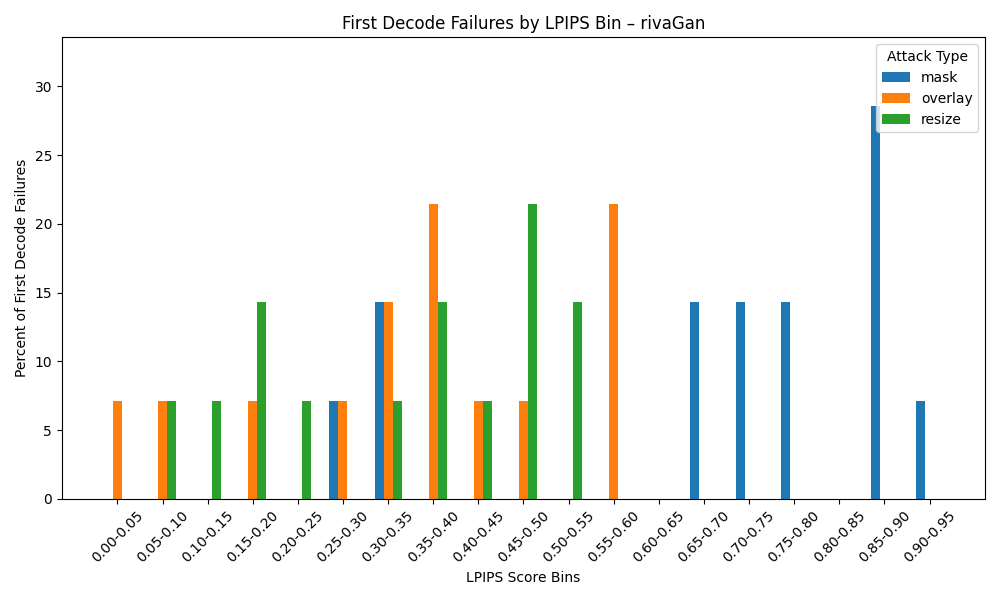
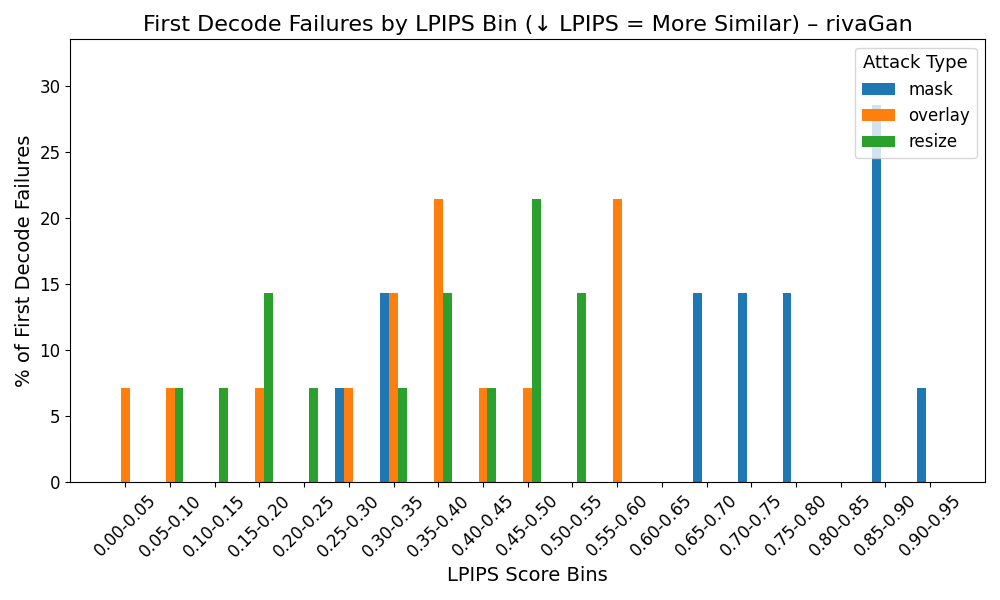
Changed title and increased font size

diff --git a/create_lpips_failure_distribution_plots.py b/create_lpips_failure_distribution_plots.py
@@ -4,6 +4,16 @@ import matplotlib.pyplot as plt
 import numpy as np
 from collections import defaultdict
 
+plt.rcParams.update({
+    'axes.titlesize': 16,
+    'axes.labelsize': 14,
+    'xtick.labelsize': 12,
+    'ytick.labelsize': 12,
+    'legend.fontsize': 12,
+    'legend.title_fontsize': 13,
+    'figure.titlesize': 18
+})
+
 # Configurable constants
 methods = ['dwtDct', 'dwtDctSvd', 'rivaGan']
 attacks = [ 'mask', 'overlay', 'resize']
@@ -97,9 +107,9 @@ for method in methods:
         plt.bar(x + i * bar_width, values, width=bar_width, label=attack, color=attack_colors_dict[attack])
 
     # Finalize plot
-    plt.title(f"First Decode Failures by LPIPS Bin – {method}")
+    plt.title(f"First Decode Failures by LPIPS Bin (↓ LPIPS = More Similar) – {method}")
     plt.xlabel("LPIPS Score Bins")
-    plt.ylabel("Percent of First Decode Failures")
+    plt.ylabel("% of First Decode Failures")
     # Find the max percent value across all bars
     max_percent = max(
         100 * bin_attack_counts[bin_label][attack] / sum(
@@ -113,7 +123,6 @@ for method in methods:
 
     # Add a small margin (e.g., 5%)
     plt.ylim(0, min(100, max_percent + 5))
-
     group_center = x + (len(attacks) * bar_width) / 2 - bar_width / 2
     plt.xticks(group_center, bin_labels, rotation=45)
     plt.legend(title="Attack Type", loc='upper right', frameon=True)
